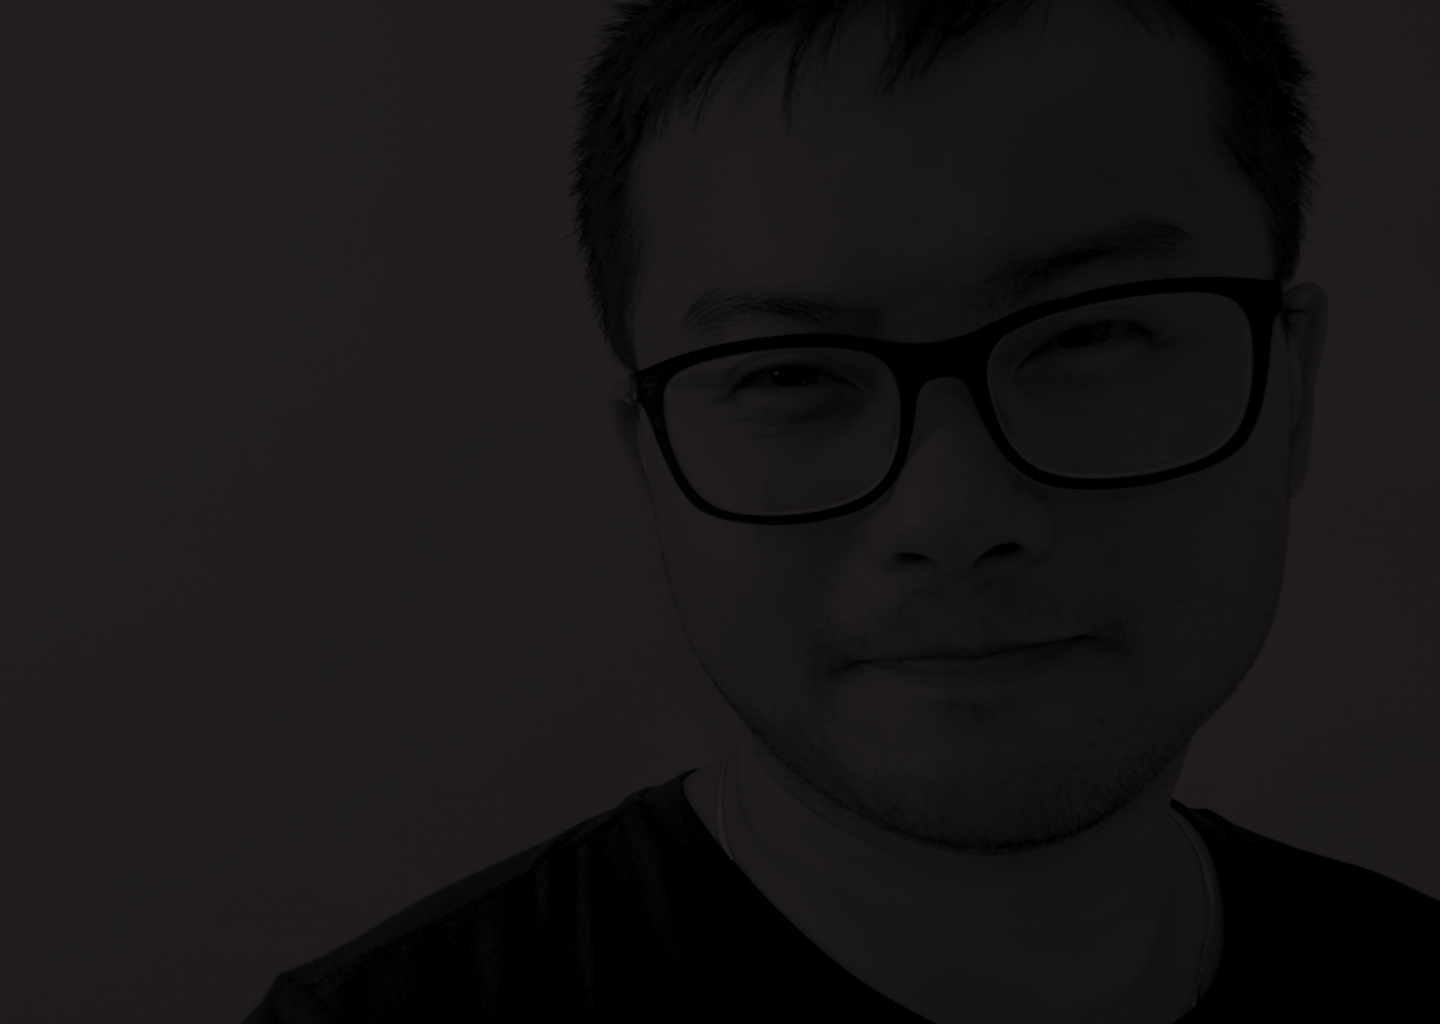
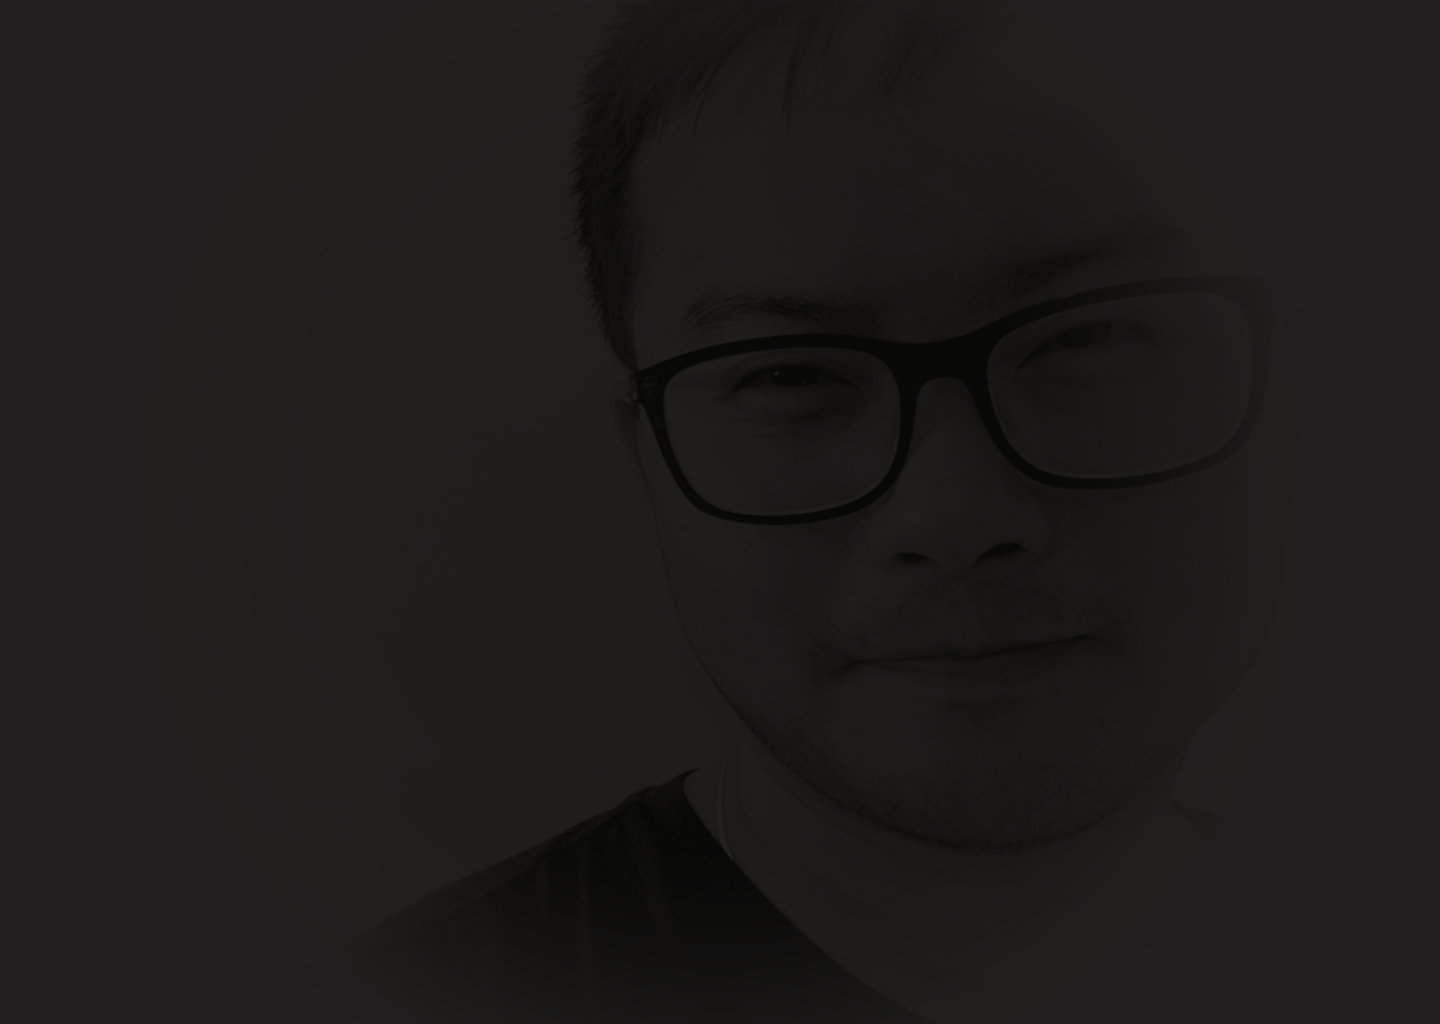
Update for mobile hero section

diff --git a/src/pages/index.js b/src/pages/index.js
@@ -6,21 +6,91 @@ import { graphql } from 'gatsby'
 import Layout from '../components/layout'
 // import ArticlePreview from '../components/article-preview'
 import Styled from '@emotion/styled'
-import Hero from '../images/hero-image.png'
+import { Link } from 'gatsby'
+import Hero from '../images/hero-image-1.png'
 
 
 const HeroSection = Styled.div`
+  height: calc(100vh - 75px);
   background: url(${Hero}) center center;
-  background-size: cover;
-  height: 100vh;
-  width: 100%;
-  z-index: 10;
+  background-size:cover;
+  max-width: 100vw;
+  z-index: 100;
   display:flex;
   justify-content: center;
   align-items: center;
+  padding: 1rem;
+  flex-direction:column;
+
 `
 const HeroContentArea = Styled.div`
+  margin: 0;
+  width: 100%;
+  height: 100%;
+  display: flex;
+  justify-content: center;
+  align-items: center;
+  flex-direction: column;
+  position:relative;
+`
+
+const HeroImage = Styled.img`
+max-height: 100%;
+max-width: 100%;
+
+`
+
+const HeroHeader = Styled.h1`
+  color: white;
+  font-size: 3rem;
+  font-family: 'montserrat', sans-serif;
+  font-weight: 700;
+  text-transform: uppercase;
+  margin: 0;
+  padding: 0;
+  line-height: 1;
+`
+
+
+const HeroSubheader = Styled.h2`
+  color: white;
+  font-size: 0.75rem;
+  font-family: 'montserrat', sans-serif;
+  font-weight: 500i;
+  text-transform: capitalize;
+  margin: 0;
+  padding: 0;
+`
+
+const HeroButton = Styled(Link)`
+  border: 1px solid #FF3364; 
+  margin: 1rem;
+  padding: 0.5rem 1rem;
+  color: ${props =>
+    props.magenta ? '#231F20' : '#FF3364'};
+  border-radius: 0.5rem;
+  background: ${props =>
+    props.magenta ? '#FF3364' : 'initial'};
+  text-decoration:none;
   
+  `
+
+const HeroButtonContainer = Styled.div`
+    display:flex;
+    justify-content:center;
+    align-items: center;
+    flex-direction:row;
+    padding-top:1rem;
+
+`
+
+const HeroNextSection = Styled(Link)`
+    position:absolute;
+    bottom: 0;
+    color:#FF3364;
+    font-size: 0.75rem;
+    padding-bottom:1rem;
+    text-decoration: none;
 `
 
 
@@ -36,7 +106,12 @@ class RootIndex extends React.Component {
       <Layout location={this.props.location}>
           <HeroSection>
             <HeroContentArea>
-      Jackie Ho
+      <HeroHeader>Jackie Ho</HeroHeader>
+      <HeroSubheader>Front-End Web Developer</HeroSubheader>
+      <HeroButtonContainer>
+      <HeroButton to="/" magenta>See Work</HeroButton><HeroButton to="/" >About Me</HeroButton>
+</HeroButtonContainer>
+<HeroNextSection to="/">See Work ↧</HeroNextSection>
             </HeroContentArea>
 
           </HeroSection>

diff --git a/src/components/navigation.js b/src/components/navigation.js
@@ -1,19 +1,21 @@
 import React from 'react'
 import { Link } from 'gatsby'
-// import styles from './navigation.module.css'
+// // import styles from './navigation.module.css'
 import Logo from '../assets/jackie.svg'
 import Styled from '@emotion/styled'
 
-const StyledLogo = Styled.img`
-  height: 64px;
-  width: 64px;
+const StyledLogo = Styled(Logo)`
+  height: 32px;
+  width: 32px;
   padding: 1rem;
-  left:100;
+  left: 100;
   display: relative;
 `
 const LogoContainer = Styled.div`
+  margin: 0;
+  padding: 0;
+  max-height: 64px;
   display:inline-block;
-  background-color: #FF3364;
   margin-left: 1rem;
 `
 const StyledNavbar = Styled.nav`
@@ -22,8 +24,6 @@ const StyledNavbar = Styled.nav`
   background:none;
   padding: 0;
   margin: 0;
-  max-height: 100px;
-  float: left;
 `
 const StyledNavList = Styled.ul`
   display: inline-flex;
@@ -52,7 +52,7 @@ text-decoration:none;
 
 export default () => (
   <StyledNavbar role="navigation">
-    <LogoContainer><StyledLogo src={Logo} /></LogoContainer>
+    <LogoContainer><StyledLogo /></LogoContainer>
     <StyledNavList>
       <StyledNavListItem>
         <StyledNavLink to="/">Home</StyledNavLink>
@@ -60,15 +60,8 @@ export default () => (
       <StyledNavListItem>
         <StyledNavLink to="/blog/">About</StyledNavLink>
       </StyledNavListItem>
-      <StyledNavListItem>
-        <StyledNavLink to="/blog/">Blog</StyledNavLink>
-      </StyledNavListItem>
-      <StyledNavListItem>
-        <StyledNavLink to="/blog/">Resume</StyledNavLink>
-      </StyledNavListItem>
-      <StyledNavListItem>
-        <StyledNavLink to="/blog/">Contact</StyledNavLink>
-      </StyledNavListItem>
+
+      
     </StyledNavList>
   </StyledNavbar>
 )

diff --git a/src/components/base.css b/src/components/base.css
@@ -1,10 +1,4 @@
-@font-face {
-  font-family: "Avenir";
-  font-weight: 400;
-  font-style: normal;
-  src: url("/avenir-400.woff2") format("woff2");
-  font-display: swap;
-}
+
 
 body {
   font-family: "Avenir", Tahoma, Arial, Helvetica, sans-serif;
@@ -13,6 +7,9 @@ body {
   color: #373F49;
   background: #231F20;
   margin: 0;
+  padding: 0;
+  width: 100%;
+  overflow:hidden;
 }
 
 img {
